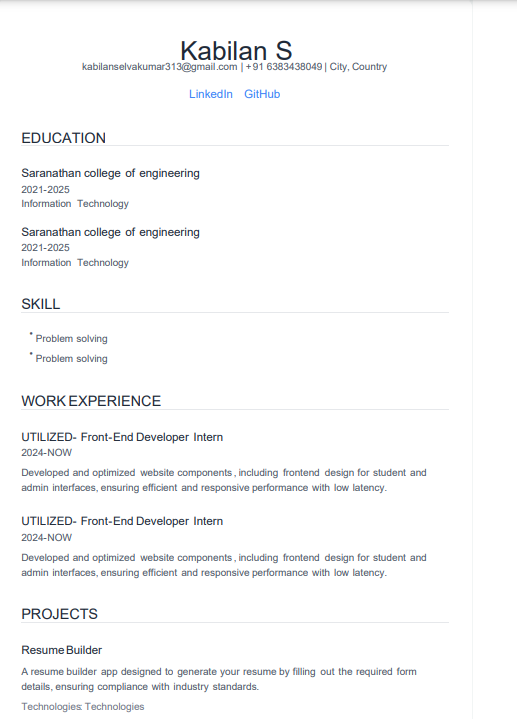
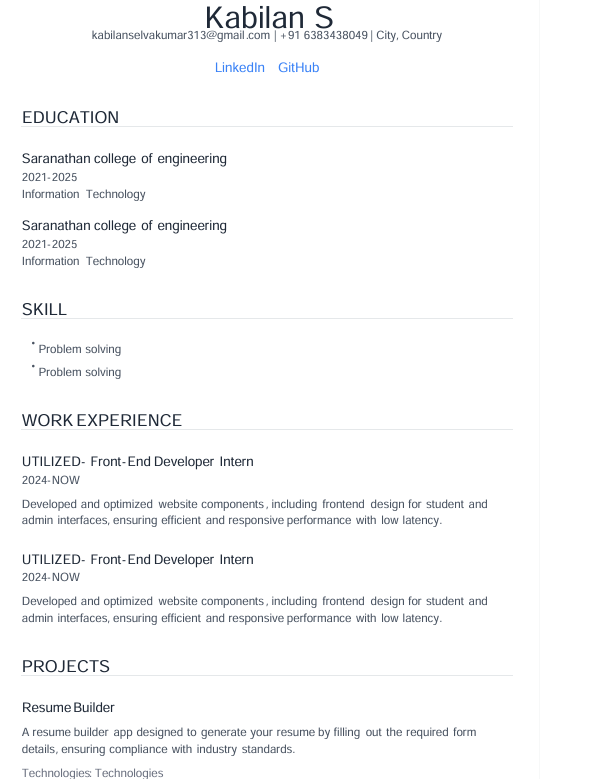
Resume image update

Changed region(s): [[0.0309, 0.0, 0.8356, 1.0]]

diff --git a/frontend/src/components/ResumePreviewLayout1.jsx b/frontend/src/components/ResumePreviewLayout1.jsx
@@ -6,12 +6,12 @@ const ResumePreviewLayout2 = ({ formData }) => {
           {/* Header */}
           <header className="text-center mb-8">
             <h1 className="text-4xl font-semibold text-gray-800">
-              {formData.personal?.name || "John Doe"}
+              {formData.personal?.name || "Kabilan S"}
             </h1>
             <div className="text-sm text-gray-600 mb-4">
-              {formData.personal?.email || "johndoe@example.com"} |{" "}
-              {formData.personal?.phone || "(123) 456-7890"} |{" "}
-              {formData.personal?.location || "City, Country"}
+              {formData.personal?.email || "kabilanselvakumar313@gmail.com"} |{" "}
+              {formData.personal?.phone || "(+91 6383438049"} |{" "}
+              {formData.personal?.location || "TN, India"}
             </div>
             <div className="flex justify-center space-x-6">
               {formData.personal?.github && (
@@ -49,11 +49,11 @@ const ResumePreviewLayout2 = ({ formData }) => {
                 {formData.education.slice(0, 3).map((edu, index) => (
                   <div key={index} className="mb-4">
                     <p className="font-semibold text-gray-800">
-                      {edu.degree || "Degree"}
+                      {edu.degree || "B-tech,IT"}
                     </p>
                     <p className="text-sm text-gray-600">
-                      {edu.institution || "Institution"} -{" "}
-                      {edu.graduationYear || "Year"}
+                      {edu.institution || "Saranathan college of engineering"} -{" "}
+                      {edu.graduationYear || "2025"}
                     </p>
                   </div>
                 ))}
@@ -101,14 +101,15 @@ const ResumePreviewLayout2 = ({ formData }) => {
                 {formData.experience.slice(0, 3).map((exp, index) => (
                   <div key={index} className="mb-6">
                     <p className="font-semibold text-gray-800">
-                      {exp.jobTitle || "Job Title"} -{" "}
-                      {exp.companyName || "Company"}
+                      {exp.jobTitle || "Front-End Developer Intern"} -{" "}
+                      {exp.companyName || "UTILIZED"}
                     </p>
                     <p className="text-sm text-gray-600">
-                      {exp.yearsOfExperience || "Years"} years
+                      {exp.yearsOfExperience || "3"} years
                     </p>
                     <p className="text-sm text-gray-600 mt-2">
-                      {exp.description || "Description"}
+                      {exp.description ||
+                        "Developed and optimized website components, including frontend design for student and admin interfaces, ensuring efficient and responsive performance with low latency. "}
                     </p>
                   </div>
                 ))}
@@ -122,13 +123,16 @@ const ResumePreviewLayout2 = ({ formData }) => {
                 {formData.projects.slice(0, 2).map((project, index) => (
                   <div key={index} className="mb-6">
                     <p className="font-semibold text-gray-800">
-                      {project.title || "Project Title"}
+                      {project.title || "Resume Builder"}
                     </p>
                     <p className="text-sm text-gray-600 mt-2">
-                      {project.description || "Description"}
+                      {project.description ||
+                        "A resume builder app designed to generate your resume by filling out the required form details, ensuring compliance with industry standards."}
                     </p>
                     <p className="text-sm text-gray-500 mt-2">
-                      Technologies: {project.technologiesUsed || "Technologies"}
+                      Technologies:{" "}
+                      {project.technologiesUsed ||
+                        " React.js, Node.js,Express.js, MongoDB"}
                     </p>
                   </div>
                 ))}
